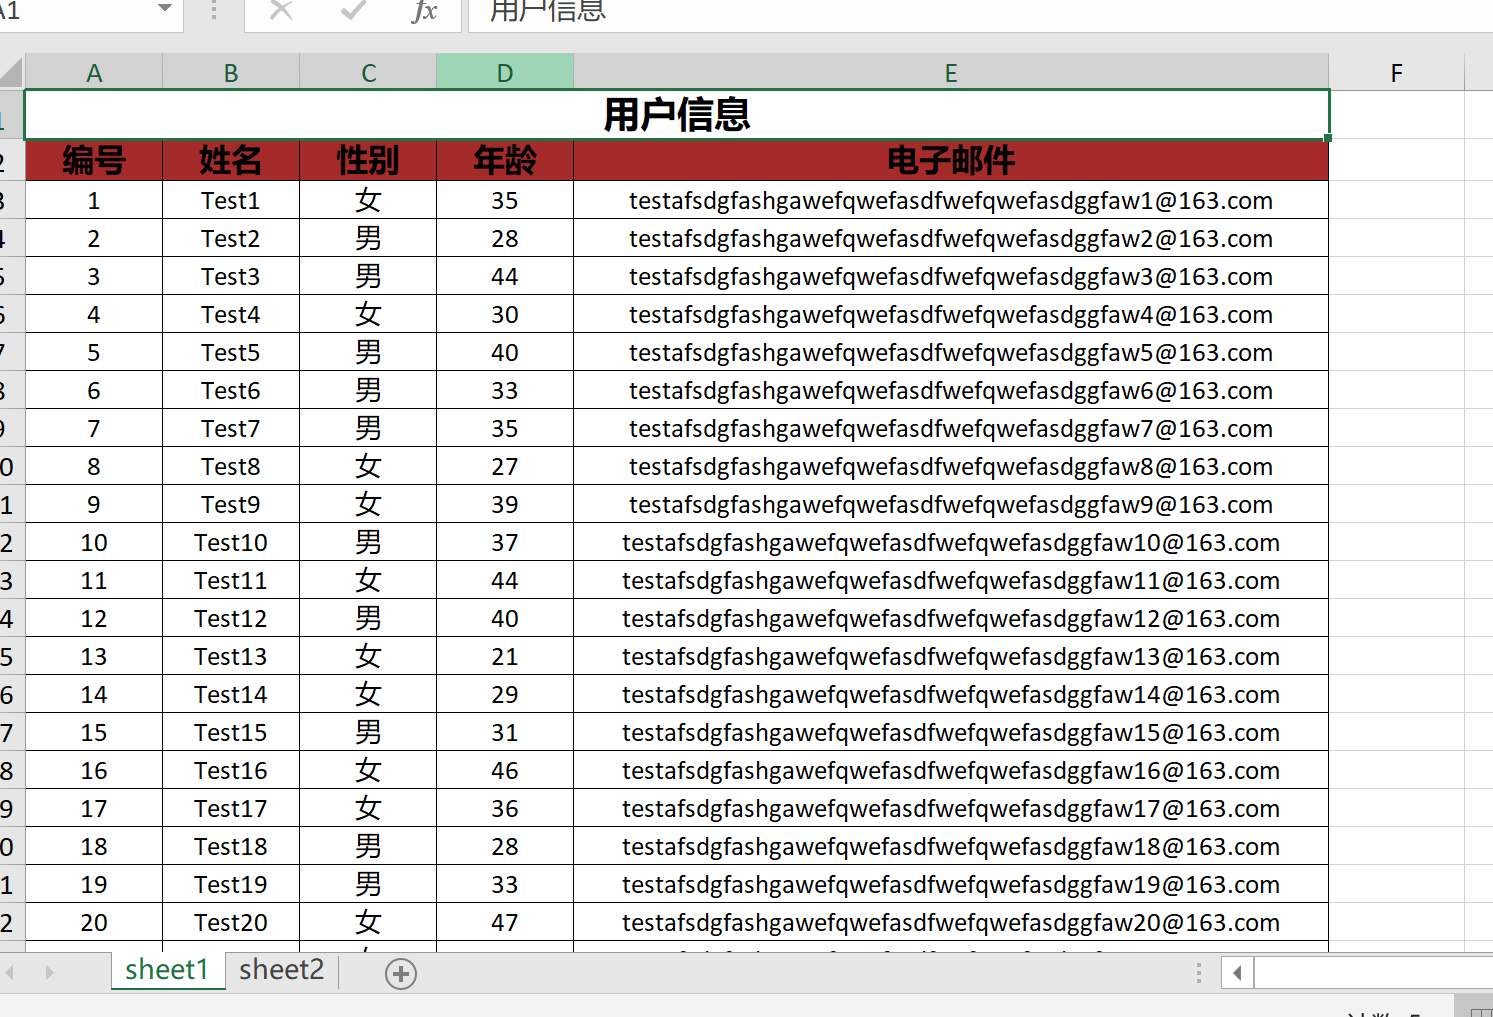
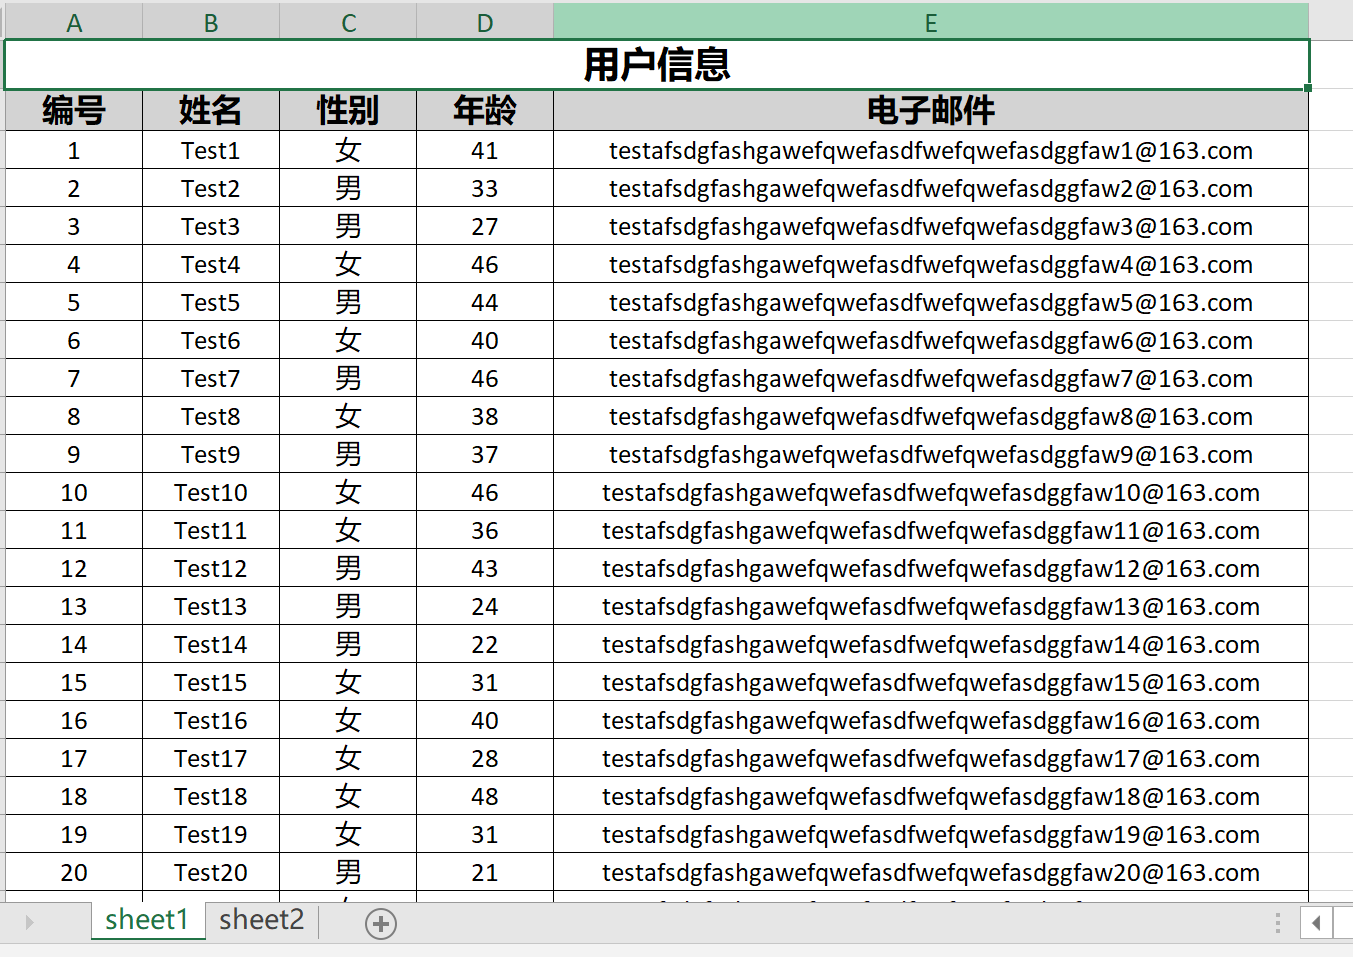
Demo修改

diff --git a/ExcelCake.Example.Core/Program.cs b/ExcelCake.Example.Core/Program.cs
@@ -10,9 +10,9 @@ namespace ExcelCake.Example.Core
     {
         static void Main(string[] args)
         {
-            //IntrusiveExport();
+            IntrusiveExport();
+            IntrusiveMultiSheetExport();
             //NoIntrusiveExport();
-            //IntrusiveMultiSheetExport();
             IntrusiveImport();
             
             Console.ReadKey();

diff --git a/ExcelCake.Example/Program.cs b/ExcelCake.Example/Program.cs
@@ -12,9 +12,9 @@ namespace ExcelCake.Example
     {
         static void Main(string[] args)
         {
-            //IntrusiveExport();
+            IntrusiveExport();
+            IntrusiveMultiSheetExport();
             //NoIntrusiveExport();
-            //IntrusiveMultiSheetExport();
             IntrusiveImport();
             Console.ReadKey();
         }

diff --git a/ExcelCake.Example.Core/Entities/UserInfo.cs b/ExcelCake.Example.Core/Entities/UserInfo.cs
@@ -9,7 +9,7 @@ using System.Drawing;
 
 namespace ExcelCake.Example
 {
-    [ExportEntity(EnumColor.Brown,"用户信息")]
+    [ExportEntity(EnumColor.LightGray, "用户信息")]
     [ImportEntity(titleRowIndex:1,headRowIndex:2,dataRowIndex:3)]
     public class UserInfo: ExcelBase
     {

diff --git a/ExcelCake.Example/Entities/UserInfo.cs b/ExcelCake.Example/Entities/UserInfo.cs
@@ -9,7 +9,7 @@ using System.Drawing;
 
 namespace ExcelCake.Example
 {
-    [ExportEntity(EnumColor.Brown,"用户信息")]
+    [ExportEntity(EnumColor.LightGray, "用户信息")]
     [ImportEntity(titleRowIndex:1,headRowIndex:2,dataRowIndex:3)]
     public class UserInfo: ExcelBase
     {

diff --git a/README.md b/README.md
@@ -45,7 +45,7 @@ gitee: https://gitee.com/winstonwxj
 #### 基于特性实体类定义
 
 ```C#
-    [ExportEntity(EnumColor.Brown,"用户信息")]
+    [ExportEntity(EnumColor.LightGray,"用户信息")]
     [ImportEntity(titleRowIndex:1,headRowIndex:2,dataRowIndex:3)]
     public class UserInfo: ExcelBase
     {
